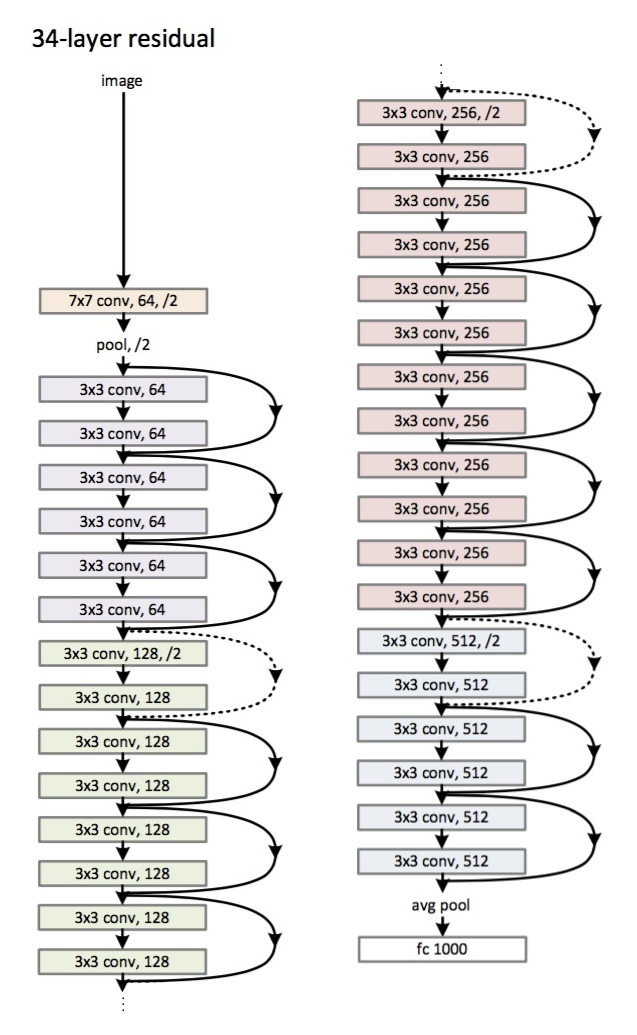
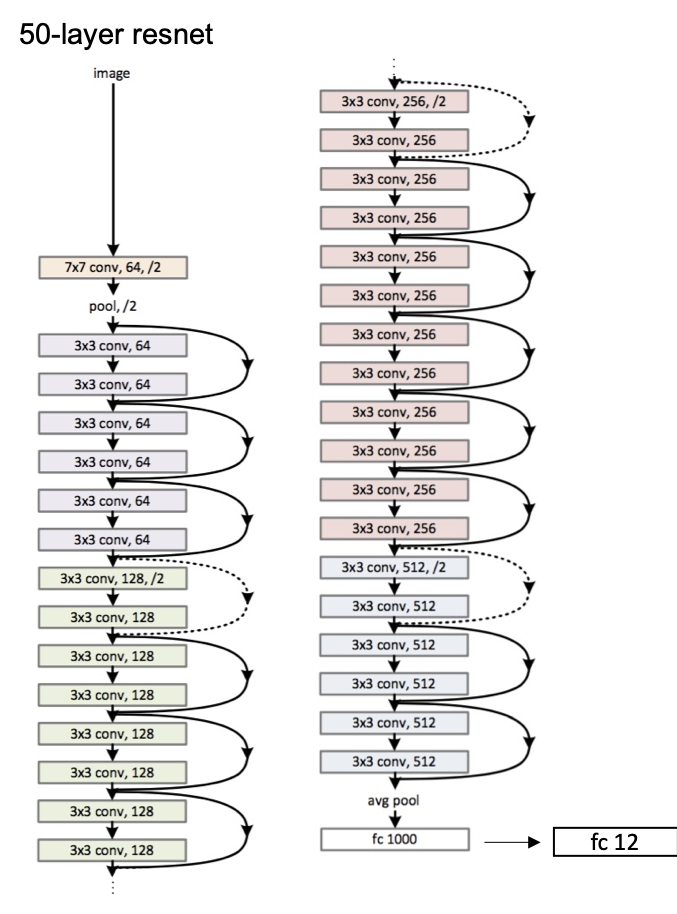
Finish all tutorial

diff --git a/inference.py b/inference.py
@@ -1,0 +1,46 @@
+# encoding: utf-8
+"""
+@author:  l1aoxingyu
+@contact: sherlockliao01@gmail.com
+"""
+
+import torch
+import torchvision.transforms as T
+from PIL import Image
+
+from model import *
+
+device = torch.device("cuda" if torch.cuda.is_available() else "cpu")
+
+checkpoint = torch.load('logs/tmp/models/best_model.pth')
+state_dict = checkpoint['state_dict']
+label2name = checkpoint['label2name']
+network = get_resnet50(len(label2name), pretrain=False)
+network.load_state_dict(state_dict)
+network.to(device)
+network.eval()
+
+resize = T.Resize((224, 224))
+totensor = T.ToTensor()
+normalize = T.Normalize(mean=[0.485, 0.456, 0.406],
+                        std=[0.229, 0.224, 0.225])
+
+
+def classify_plant(image):
+    image = resize(image)
+    image = totensor(image)
+    image = normalize(image)
+    image = image.unsqueeze(0)  # add an axial to [1, 3, 224, 224]
+    image.to(device)
+    with torch.no_grad():
+        scores = network(image)
+    pred_label = label2name[scores.max(1)[1].item()]
+    scores = scores.cpu().numpy()
+    return pred_label, scores
+
+
+if __name__ == '__main__':
+    img_path = ''
+    origin_image = Image.open(img_path).convert("RGB")
+
+    pred_label, scores = classify_plant(origin_image)

diff --git a/utils/create_data_lists.py b/utils/create_data_lists.py
@@ -13,7 +13,6 @@ import numpy as np
 # split train and valid list
 def split_dataset(root_path, split_ratio):
     train_path = os.path.join(root_path, 'train')
-    test_path = os.path.join(root_path, 'test')
     train_labels = os.listdir(train_path)
     name2label = dict((j, i) for i, j in enumerate(train_labels))
     label2name = dict((j, i) for i, j in name2label.items())

diff --git a/train.py b/train.py
@@ -1,6 +1,6 @@
 # encoding: utf-8
 """
-@author:  sherlock
+@author:  l1aoxingyu
 @contact: sherlockliao01@gmail.com
 """
 

diff --git a/README.md b/README.md
@@ -76,14 +76,28 @@ $$
 在这个部分，我们展示一下整体的模型结构，如果你很熟悉这个部分，你可以直接跳到[implementation](https://github.com/L1aoXingyu/a-PyTorch-Tutorial-to-Transfer-Learning#implementation)
 
 ## Base Convolutions
-首先，我们使用目前存在的神经网络结构作为例子，这里我们使用 ResNet50。
+首先，我们使用目前存在的神经网络结构作为例子，这里我们使用 ResNet50 作为例子，也可以尝试使用不同的网络结构。
 
 <div align=center>
-<img src='assets/resnet.png' width='800'>
+<img src='assets/resnet.png' width='400'>
 </div>
 
+我们会保留完整的网络结构，除了最后一层，我们会用一个新的全连接层去替换最后一层，实现我们需要的分类效果。
+
+## Loss 函数
+对于分类问题，我们使用最常用的交叉熵损失函数，公式如下
+
+$$
+l_{CE} = - \sum_{i=1}^C t_i \log (y_i)
+$$
+
+其中 $y_i$ 是softmax之后的结果，$t_i$ 是 one-hot 的真实label。
+
+## 处理预测过程
+在网络的预测过程中，我们将图片输入到网络中，最后可以得到一个k-维向量，这个向量表示每个分类的得分，我们只需要取里面得分最大的下标作为预测的label即可，注意这里的向量每个元素求和并不等于1，如果要等于1，需要对向量进行softmax操作。
+
 # Implementation
-## 数据下载
+## 数据准备
 通过[比赛界面](https://www.kaggle.com/c/plant-seedlings-classification/data)根据图片中的显示进行数据下载
 
 <div align=center>
@@ -92,24 +106,58 @@ $$
 
 然后在项目的根目录中创建`datasets`文件夹，将下载好`train.zip`和`test.zip`文件放入`datasets`中
 
+里面一共有12种不同的植物信息
+```python
+{'Black-grass', 'Charlock', 'Cleavers', 'Common Chickweed', 'Common wheat', 'Fat He', 'Loose Silky-bent', 'Maize', 'Scentless Mayweed', 'Shepherds Purse', 'Small-flowered Cranesbill', 'Sugar beet'}
+```
+
+通过 `utils/create_data_lists.py` 中的函数，我们可以按照比例将有标注的图片分成训练集和验证集，他们都是以`list`的方式存在，每个元素包含着图片的路径和对应的label，同时会得到一个字典`label2name`，里面包含着`0 ~ 11`这 12 个数字分别对应的具体上面的标签。
+
+## 输入
+我们将图片都 resize 到 `224, 224` 作为网络的输入，同时每张图片的读入都是 RBG 的格式。
+
+接着我们通过一系列数据增广的操作，比如随机裁剪，随机翻转等等，更多的增广方法具体看一看`torchvision.transforms`中的函数。
+我们的数据增广定义在 `train.py` 中定义了`train_tfms`和`test_tfms`作为训练集和测试集的数据增广。
+`train_tfms`主要使用了`RandomResizedCrop`和`RandomHorizontalFlip`，首先在[3/4-4/3]中随机挑选一个比例进行resize，然后再[0.08-1]之间随机选择一个尺寸进行crop，最后在resize到输入大小，然后在随机水平翻转。
+`test_tfms`就是直接将图片resize到了输入的大小。
+
+下面是我们通过数据增广的三个例子
+
+<div align=center>
+<img src='assets/image_aug.png' width='500'>
+</div>
+
+最后我们将输入的像素点标准化到[0, 1]之间，然后用 ImageNet 的均值和方差做标准化
+```
+mean = [0.485, 0.456, 0.406]
+std = [0.229, 0.224, 0.225]
+```
+
+## 数据读取
+我们在`datasets.py`中自定义了一个数据类，这是一个继承于 PyTorch `Dataset` 的子类，我们用来定义训练集和测试集，只需要定义`__len__`表示数据一共有多少， 和 `__getitem__`表示取出其中第 `i` 个数据点。
+
+接着我们使用 PyTorch 中的 `DataLoader` 进行数据读取，这能够帮助我们方便的实现一个 `batch` 数据的读取，同时还能够利用python的多进程加快读取速度，其中 `num_workers`就是控制python进程数目。除此之外，还有一个参数是 `pin_memroy`，如果设置为 `True`，那么数据将会存放在锁业内存中，这样转换成GPU上的显存速度就会更快，如果电脑性能较差，可以设置为 `False`，将数据存放在虚拟内存中。
+
+## 模型
+我们再 `model.py` 中定义了输入的模型 `ResNet50`，通过 `net.fc = nn.Linear(net.fc.in_features, classes)` 实现了最后一层的替换。
 
 # Training
-
-
-## 训练 baseline
-运行下面的代码
+我们的训练脚本都在 `train.py` 中实现了，通过运行下面的代码
 
 ```bash
 python train.py 
 ```
 
-就可以进行baseline训练, 这次提供的baseline是模块化的代码，所有的配置文件都在`core/config.py`中，大家可以自己去查看，同时因为数据和模型比较大，这次代码只支持GPU训练，在训练过程中，会自动创建`checkpoints`文件夹，训练的模型会自动保存在`checkpoints`中。
+就可以进行baseline训练, 在训练过程中，会自动创建`logs/tmp`文件夹，训练的模型会自动保存在`logs/tmp/models`中。
+
+损失函数我们使用的是交叉熵`nn.CrossEntropyLoss()`, 优化器选用了 `Adam`，学习率初始为`0.1`，一共训练`120`epochs，分别在`60`和`90`次进行学习率的0.1倍的衰减，`weight_decay` 选择了 `5e-4`。
+
+所有的模型训练参数都可以在 `main` 函数的 `parser` 中查看。
 
 # Evaluation
+我们的测试脚本在 `submission.py` 中实现了，通过载入训练好的模型，输入所有测试集的数据，经过模型得到预测的结果，然后进行结果的提交。
 
-
-## 提交结果
-训练完成 baseline 之后，我们的模型会保存在 `checkpoints` 中，我们可以 load 我们想要的模型，进行结果的提交，运行下面的代码
+运行下面的代码
 
 ```
 python submission.py --model_path='logs/tmp/model/model_best.pth' 
@@ -121,5 +169,15 @@ python submission.py --model_path='logs/tmp/model/model_best.pth'
 <img src='https://ws1.sinaimg.cn/large/006tNbRwly1fwdozwppbuj31iq0c2jry.jpg' width='800'>
 </div>
 
+通过这个结果可以判断你的模型性能的好坏。
 
 # Inference
+我们的推理脚本在 `inference.py` 中实现了，首先在开头载入训练好的模型，然后可以使用 `classify_plant()` 函数进行图片的预测。
+
+```python
+img_path = 'path/to/image'
+origin_image = PIL.Image.open(img_path).convert('RGB')
+
+pred_label, scores = classify_plant(origin_image)
+```
+通过这个函数就可以得到模型对输入图片预测的结果以及预测的置信度。
